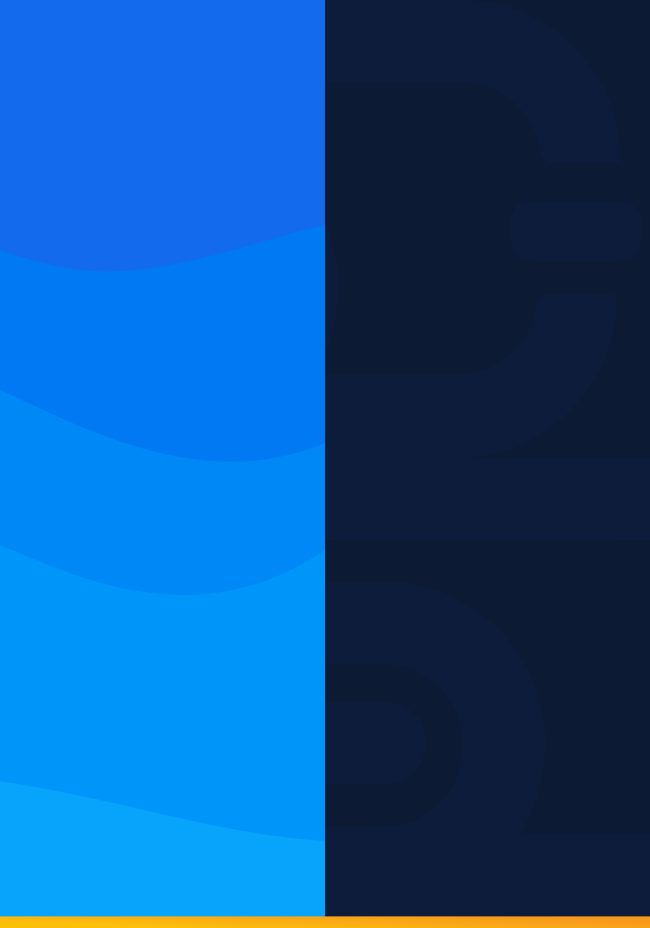
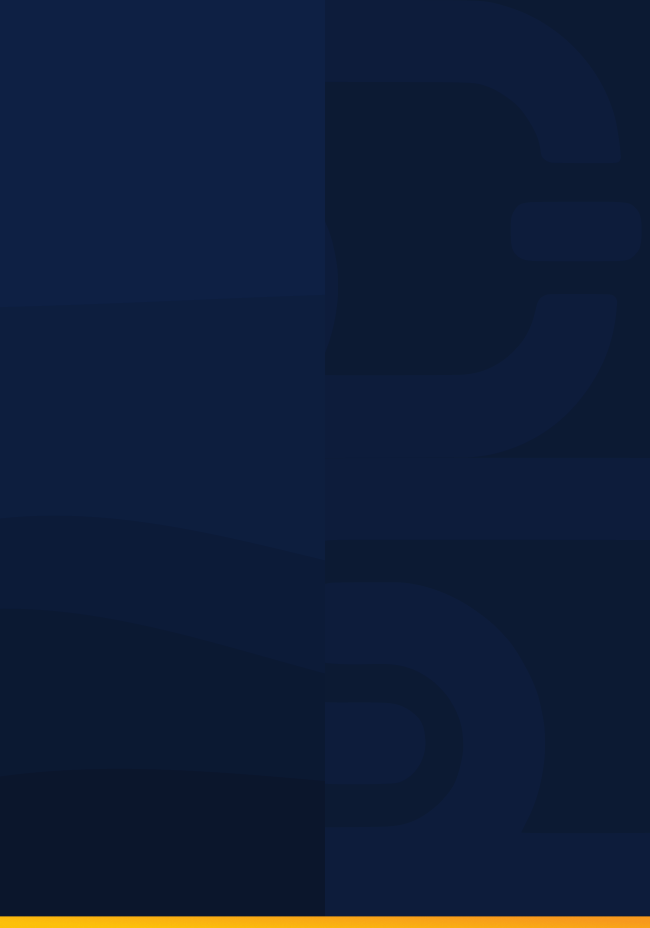
Made hero section responsive.

diff --git a/SCSS/Components/_mediaqueries.scss b/SCSS/Components/_mediaqueries.scss
@@ -1,3 +1,4 @@
+@use "../config/_variables" as *;
 @media only screen and (max-width: 1600px) {
   .hero {
     &-container {
@@ -171,6 +172,9 @@
       &-left {
         display: none;
       }
+      &-center {
+        margin-left: 16vw;
+      }
       &-right {
         &-items {
           img {
@@ -179,6 +183,7 @@
       }
     }
   }
+
   .skills {
     margin-top: 4rem;
     &-list {
@@ -204,7 +209,45 @@
   h1 {
     font-size: 3.2rem;
   }
+  .waves {
+    display: none;
+  }
+  .wavesm {
+    display: block;
+    width: 100%;
+    height: auto;
+    z-index: -1;
+  }
+  .hero {
+    &-container {
+      &-text {
+        &-1 {
+          background: linear-gradient(67.93deg, #fcc00a 23.56%, #f7991d 79.49%);
+          -webkit-background-clip: text;
+          -webkit-text-fill-color: transparent;
+          background-clip: text;
+          text-fill-color: transparent;
 
+          font-size: 10vw;
+        }
+        &-2 {
+          font-size: 10vw;
+        }
+        &-3 {
+          background: linear-gradient(
+            67.93deg,
+            $light-blue 23.56%,
+            $dark-blue 79.49%
+          );
+          -webkit-background-clip: text;
+          -webkit-text-fill-color: transparent;
+          background-clip: text;
+          text-fill-color: transparent;
+          font-size: 10vw;
+        }
+      }
+    }
+  }
   .skills {
     margin-top: 4rem;
     &-list {

diff --git a/CSS/styles.css b/CSS/styles.css
@@ -322,6 +322,10 @@ footer {
   z-index: -1;
 }
 
+.wavesm {
+  display: none;
+}
+
 .hero-social_list li {
   margin: 2rem;
   filter: drop-shadow(0px 0px 10px rgba(11, 22, 44, 0.0549019608));
@@ -722,6 +726,9 @@ footer {
   .nav-container-left {
     display: none;
   }
+  .nav-container-center {
+    margin-left: 16vw;
+  }
   .skills {
     margin-top: 4rem;
   }
@@ -743,6 +750,34 @@ footer {
 @media only screen and (max-width: 650px) {
   h1 {
     font-size: 3.2rem;
+  }
+  .waves {
+    display: none;
+  }
+  .wavesm {
+    display: block;
+    width: 100%;
+    height: auto;
+    z-index: -1;
+  }
+  .hero-container-text-1 {
+    background: linear-gradient(67.93deg, #fcc00a 23.56%, #f7991d 79.49%);
+    -webkit-background-clip: text;
+    -webkit-text-fill-color: transparent;
+    background-clip: text;
+    text-fill-color: transparent;
+    font-size: 10vw;
+  }
+  .hero-container-text-2 {
+    font-size: 10vw;
+  }
+  .hero-container-text-3 {
+    background: linear-gradient(67.93deg, #138ef0 23.56%, #0971f0 79.49%);
+    -webkit-background-clip: text;
+    -webkit-text-fill-color: transparent;
+    background-clip: text;
+    text-fill-color: transparent;
+    font-size: 10vw;
   }
   .skills {
     margin-top: 4rem;

diff --git a/index.html b/index.html
@@ -76,6 +76,7 @@
     </nav>
     <section class="hero">
       <img src="Images\Waves2.webp" class="waves" alt="" />
+      <img src="Images\Waves3M.webp" class="wavesm" alt="" />
       <div class="hero-container top-set">
         <div class="hero-container-text">
           <h1><span class="hero-container-text-1">Hi. </span> <span class="hero-container-text-2"> I'm </span> <span class="hero-container-text-3">Sawyer, </span></h1>
@@ -238,7 +239,7 @@
           </ul>
         </div>
       </section>
-      <section class="contact" id="contact-point">
+      <section class="contact reveal" id="contact-point">
         <div class="contact-header">
           <img src="Icons/Contact.svg" class="contact-header-img" alt="" />
           <h1>CONTACT</h1>
@@ -264,7 +265,7 @@
         </form>
       </section>
 
-      <footer>
+      <footer class="reveal">
         <span>
            Sawyer - 
           &copy; <script>document.write(new Date().getFullYear());</script>  

diff --git a/SCSS/Components/_project.scss b/SCSS/Components/_project.scss
@@ -331,6 +331,9 @@ footer {
   height: auto;
   z-index: -1;
 }
+.wavesm {
+  display: none;
+}
 
 .hero-social_list li {
   img {
